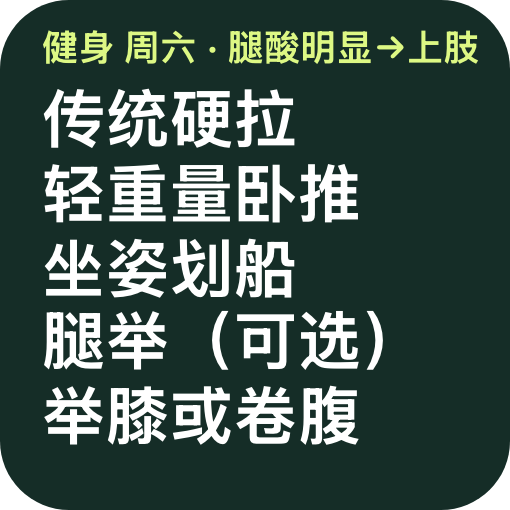
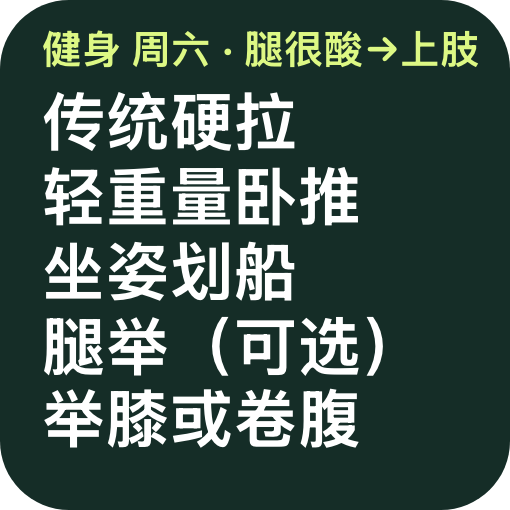
缩短周六健身标题以适配窄屏

diff --git a/Scriptable/健身.js b/Scriptable/健身.js
@@ -64,7 +64,7 @@ const week = [
       ["悬垂举膝或卷腹", "3 × 10–15", "60 秒"],
     ],
     lockHeading: "周六 · 腿酸明显则练上肢",
-    homeHeading: "周六 · 腿酸明显→上肢",
+    homeHeading: "周六 · 腿很酸→上肢",
     adjustment: "周五训练后腿部酸痛明显，跳过硬拉和腿举，改练上肢。",
     notes: ["硬拉使用轻到中等重量，保留约 3 次余力。"],
     strength: true,
